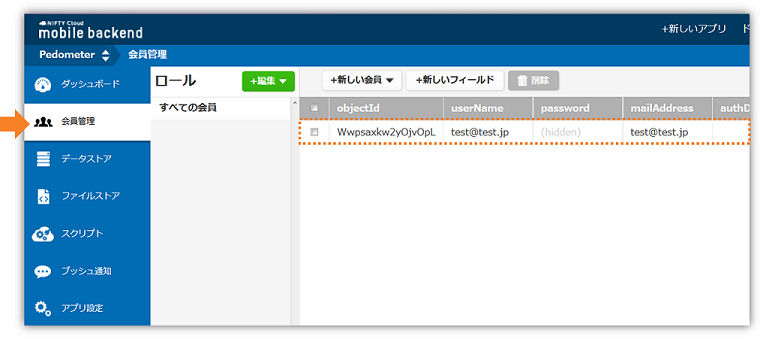
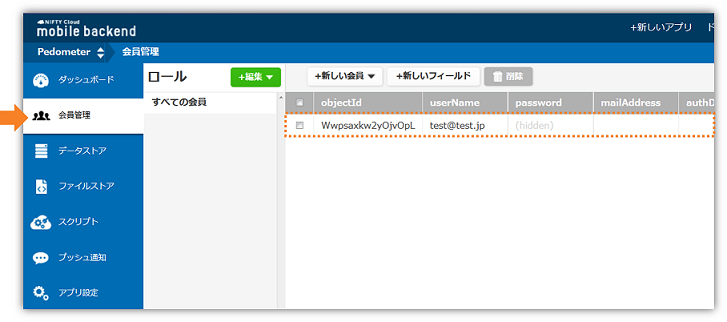
update image & doc
・画像の修正
・「ゴミ箱」ボタン押下時の処理を追記

diff --git a/README.md b/README.md
@@ -505,12 +505,19 @@ var watchId = navigator.accelerometer.watchAcceleration(onAcceSuccess, onAcceErr
 ### 動作確認②
 #### ダッシュボードで登録されたことを確認
 * 「acl」の「パーミッション編集」をクリックすると、会員（自分）のobjectIdが確認できます
- * この場合は、会員自身しかこのデータにアクセスすることができません。
+ * この場合は、会員自身のみがデータにアクセスすることができます。
+
+#### 一度ログアウトしたあと、もう一度アプリを使ってみよう！
+* データを検索して、ログイン後すぐに歩数（今日の分）を表示してくれます
 
 ---
 ### 動作確認②
-#### 一度ログアウトしたあと、もう一度アプリを使ってみよう！
-* データを検索して、ログイン後すぐに歩数（今日の分）を表示してくれます！
+#### カウントを0に戻すには？？
+* 画面右上の「ゴミ箱」アイコンをタップすると歩数計のカウントを0に戻すことができます
+* mBaaS（クラウド）上にも反映されるので、確認してみましょう
+
+.center[![動作確認②デバッガー2](readme-img/動作確認②デバッガー2.png)]
+
 
 ---
 layout: true
